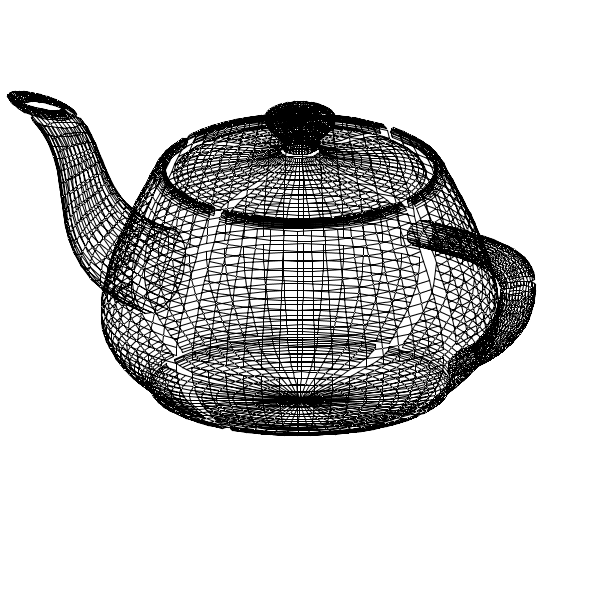
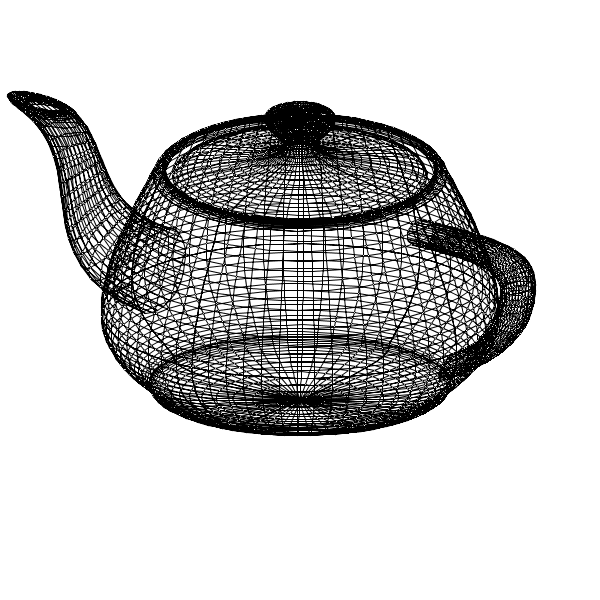
Update doc

diff --git a/README.md b/README.md
@@ -74,16 +74,13 @@ which generates:
 
 ![Torus](https://raw.github.com/rm-hull/wireframes/master/doc/gallery/teapot.png)
 
-Notice how the surface panels are not stitched together properly however... this is
-currently on the TODO list.
-
 ## TODO
 
 * Efficiently calculate polygons on shapes
 * Rewrite/rename wireframes.transform/concat - unroll loops for performance
 * ~~Complete Bezier patch code~~
 * ~~Rectilinear perspective mapping~~
-* Stitch adjacent surface panels together
+* ~~Stitch adjacent surface panels together~~
 * SVG renderer
 * Canvas renderer
 * Simple flat shading / lighting
